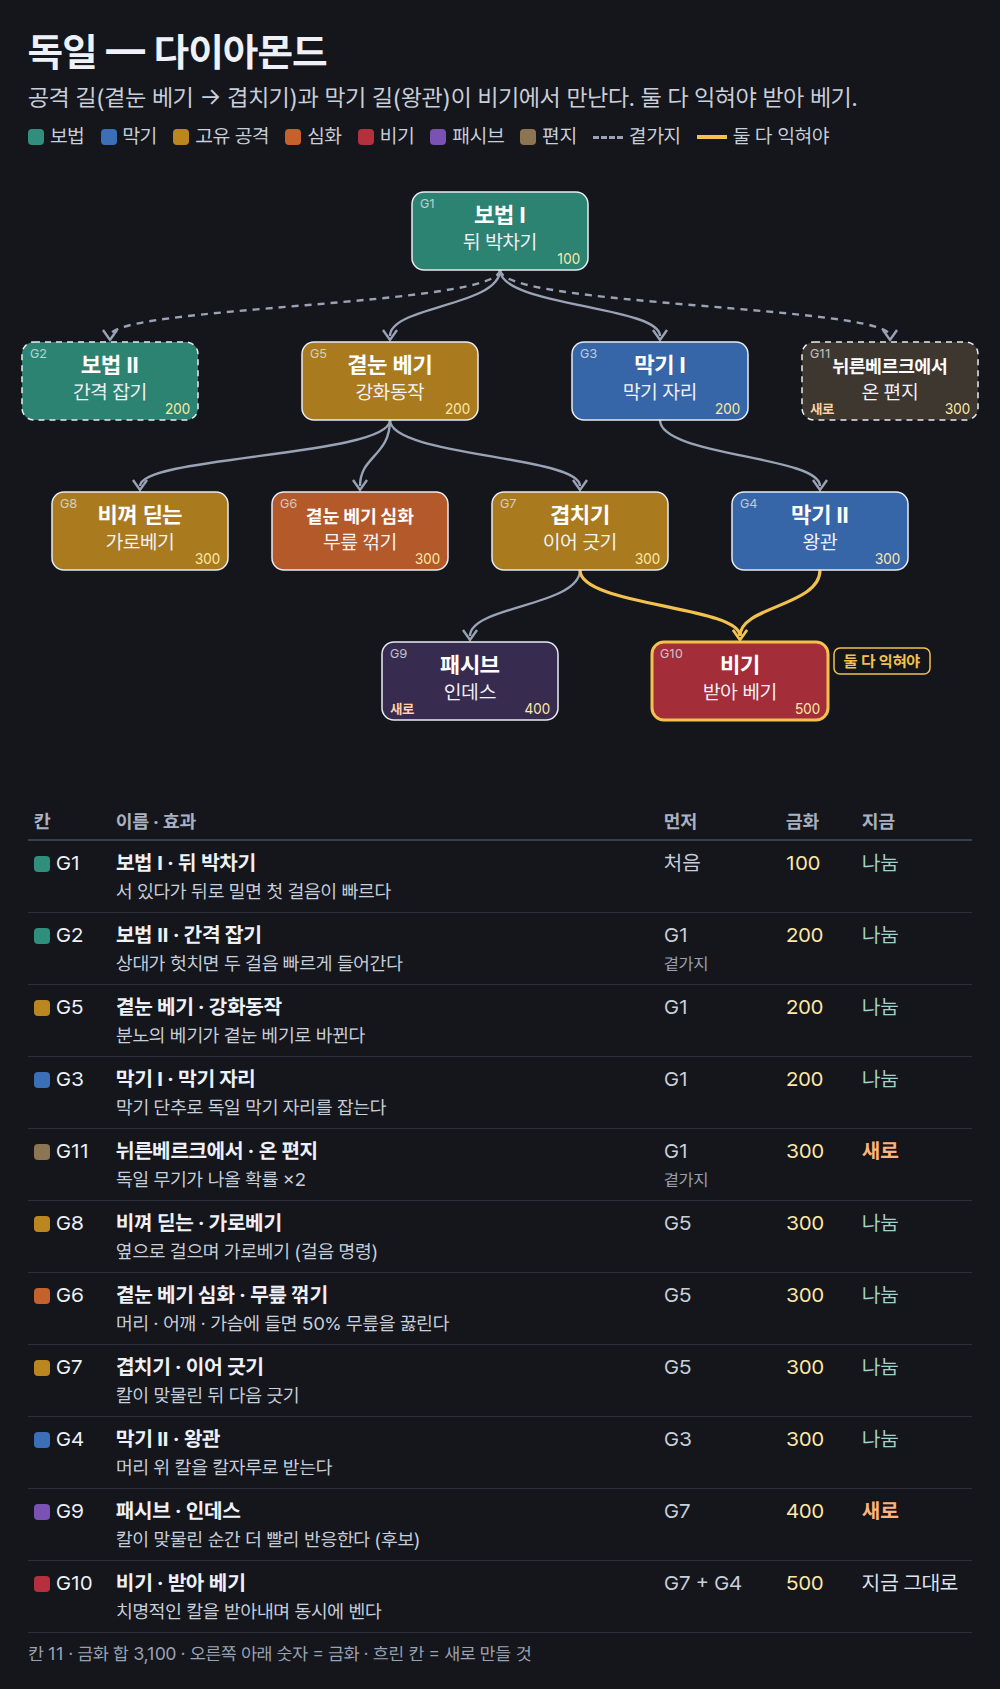
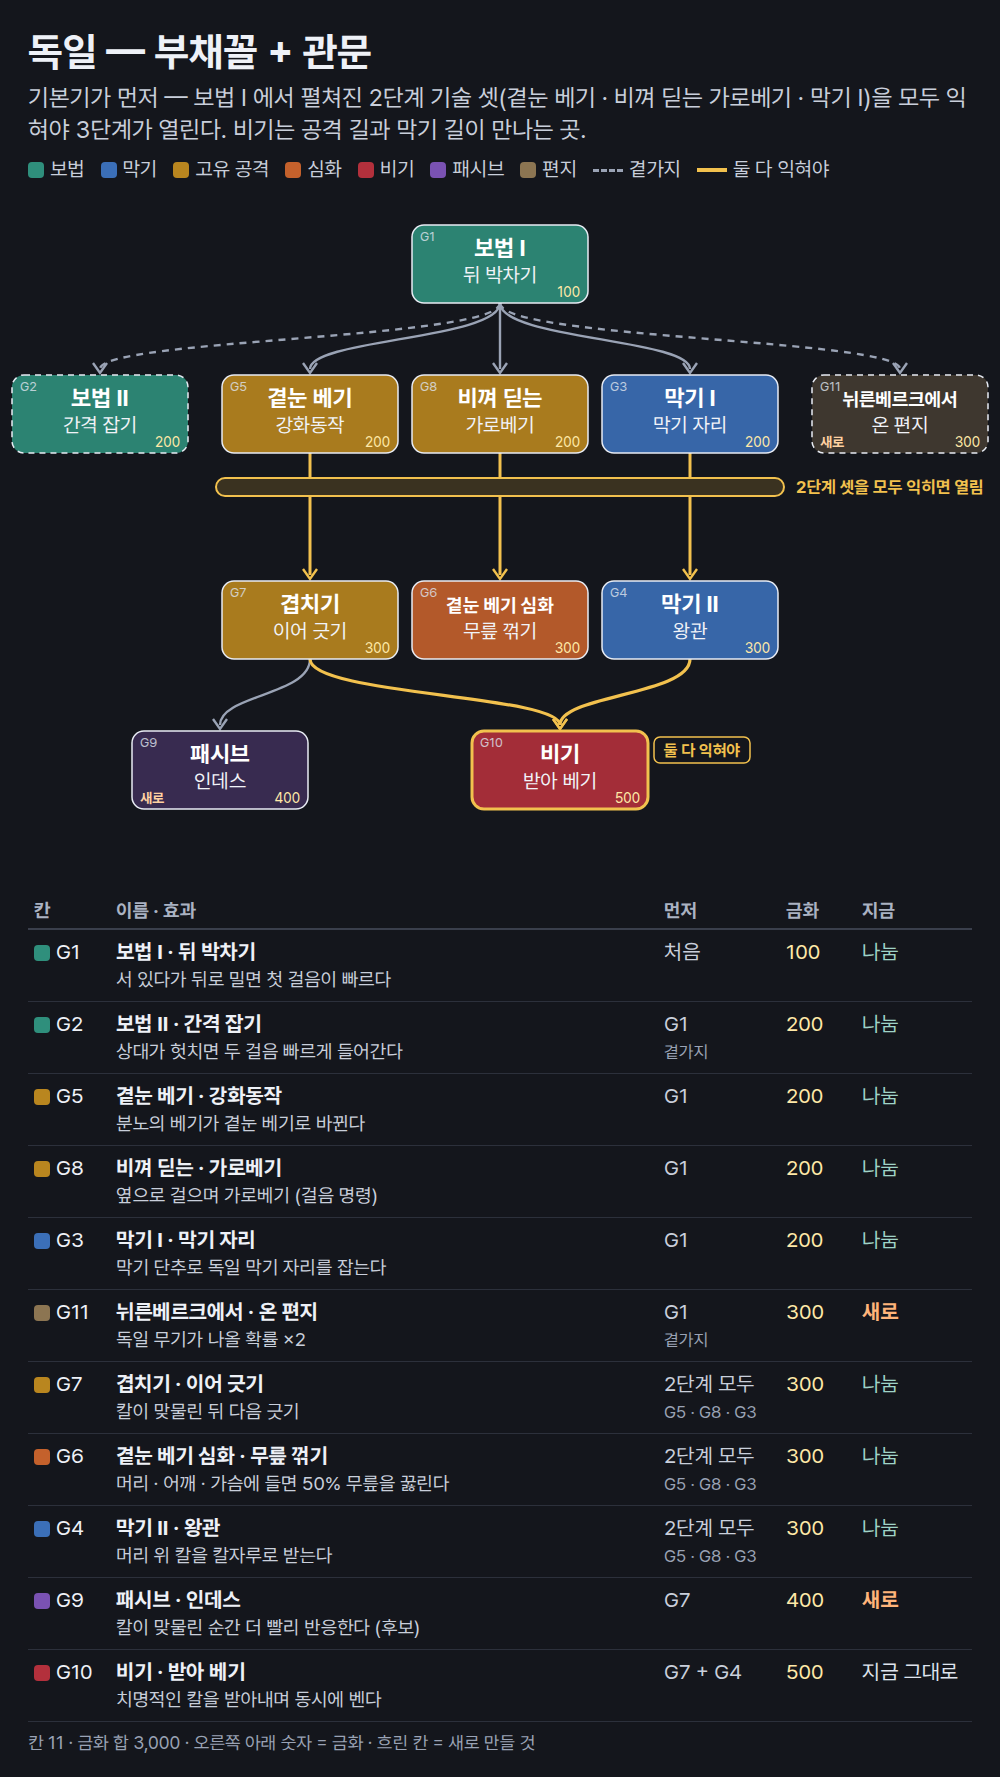
스킬트리 가안: 독일 부채꼴 + 관문(2단계 셋을 모두 익혀야 3단계) · 유파별 비기까지 최소 금화 표 (사장님 10/21 '독일은 기본기를 중시' · '비기를 최소비용으로 배우려고 할 때')
Claude-Session: https://claude.ai/code/session_014nJCzE4hyxiYc9innhSUng

diff --git a/docs/design/skill_tree_2026-10-21/README.md b/docs/design/skill_tree_2026-10-21/README.md
@@ -11,13 +11,13 @@
 - **이탈리아만 예외**(사장님 18:4x '이탈리아는 보법 심화를 익혀야 다음으로 넘어갈 수 있게 하자'): 보법 II 물러서기를 반드시 거친다 — 거리가 생명인 유파의 특색. 편지는 보법 I 곁가지 그대로.
 - **지금 한 권에 묶인 것을 나눴다**: 보법(뒤 박차기 / 간격 잡기 · 박자 걸음 / 물러서기 · 넓은 옆걸음 / 옆 박차기 · 가벼운 발 / 덜 지치는 걸음) · 막기(자리 / 덧씌우기 · 피해 감소 · 막아찌르기) · 고유 공격(2~3 개를 한 권에 → 칸마다) · 강화동작의 이점을 '심화' 칸으로(무릎 꺾기 · 틈 파고들기 · 쌓기 · 출혈).
 - **일본은 보법을 하나로 두었다**(낮은 자세와 버티기가 같은 몸이라 나누기 어려움) — 대신 막기를 셋(우케나가시 / 흘려 받기 / 흘린 칼)으로 나눠 11 칸을 맞춤.
-- **'둘 다 익혀야' 칸**(금색 줄): 독일 받아 베기(겹치기 + 왕관) · 이베리아 몰리네테(둥근 걸음 + 이어 긋기 흐름) · 일본 츠바메가에시(히라키기리 + 코테) · 동방 연환(날개 접기 + 단단한 받기).
+- **'둘 다 익혀야' 칸**(금색 줄): 독일 받아 베기(겹치기 + 왕관 — 그 앞에 2단계 셋 관문) · 이베리아 몰리네테(둥근 걸음 + 이어 긋기 흐름) · 일본 츠바메가에시(히라키기리 + 코테) · 동방 연환(날개 접기 + 단단한 받기).
 
 ## 유파마다 모양
 
 | 유파 | 모양 | 비기까지 |
 |---|---|---|
-| 독일 | 다이아몬드 — 공격 길과 막기 길이 비기에서 만남 | 보법 I → 곁눈 베기 → 겹치기 + 막기 I → 왕관 |
+| 독일 | 부채꼴 + 관문 — 2단계 기술 셋(곁눈 베기 · 비껴 딛는 가로베기 · 막기 I)을 모두 익혀야 3단계가 열림(사장님 18:5x '독일은 기본기를 중시한다는 의미에서') · 보법 II · 편지는 곁가지 그대로 | 보법 I → 2단계 셋 → 겹치기 + 왕관 |
 | 이탈리아 | 긴 줄기 — 보법 II 를 거쳐 찌르기 줄기와 막기 줄기가 나란히 | 보법 I → 보법 II → 비껴서며 찌르기 → 내려 찌르기 → 심화(틈 파고들기) → 비기 (사장님 18:4x '내려찌르기 심화와 비기도 한 줄로' — 위에서 찌르기를 깊이 익힌 뒤 정반대인 밑으로 들어가 찌르기가 끝자리) |
 | 이베리아 | 고리 — 손목 힘 패시브를 보법 바로 아래에서 먼저(사장님 18:5x '패시브가 있어야 다른 동작이 원활해지니까') · 둥근 걸음 길과 돌려 베기 길이 비기에서 닫힘 | 보법 I → 둥근 걸음 탈류 + 돌려 베기 → 이어 긋기 흐름 |
 | 일본 | 막기 줄기 — 받기를 셋 익혀야 고노센 | 보법 → 우케나가시 → 흘려 받기 → 흘린 칼 |
@@ -37,3 +37,15 @@
 - 이미 산 책은 나눈 칸으로 옮긴다: 1급 보법 → 보법 I · II · 2급 막기 → 막기 칸 전부 · 3급 고유자세 → 고유 공격 · 심화 칸 전부 · 4급 패시브 → 패시브 · 5급 비기 → 비기(앞 칸이 없어도 열림).
 - AI 는 그대로(숙련도). 사람만 트리.
 - 새로 만들 것: 패시브 넷(독일 인데스 · 이탈리아 카바치오네 · 일본 잔신 · 동방 검결가 — 효과는 후보) · 일본 코테 심화(이점 미정 — 확인표 2107) · 편지 다섯 · 뽑기 규칙 · 대기실 판(지금 별자리 다섯 칸 → 트리 11 칸).
+
+## 비기까지 최소 금화 (사장님 18:5x '유파별로 비기를 최소비용으로 배우려고 할 때 각각 금화가 얼마씩')
+
+| 유파 | 최소 금화 | 칸 | 길 | 트리 전체 |
+|---|---:|---:|---|---:|
+| 이베리아 | **1,300** | 5 | 보법 I 100 → 둥근 걸음 탈류 200 · 돌려 베기 200 → 이어 긋기 흐름 300 → 비기 500 | 3,100 |
+| 일본 | **1,500** | 5 | 보법 100 → 우케나가시 200 → 흘려 받기 300 → 흘린 칼 400 → 비기 500 | 3,200 |
+| 동방 | **1,600** | 6 | 보법 I 100 → 요격 200 · 세 자세 200 → 날개 접기 300 · 단단한 받기 300 → 비기 500 | 3,100 |
+| 이탈리아 | **1,700** | 6 | 보법 I 100 → 보법 II 200 → 비껴서며 찌르기 200 → 내려 찌르기 300 → 심화 400 → 비기 500 | 3,200 |
+| 독일 | **1,800** | 7 | 보법 I 100 → 2단계 셋 600 → 겹치기 300 · 왕관 300 → 비기 500 | 3,000 |
+
+지금은 비기 책 하나 500 이면 바로 열린다(순서 없음).

diff --git a/docs/decisions.md b/docs/decisions.md
@@ -1287,3 +1287,4 @@
 - 18:3x "스킬트리를 짜야해. 디아블로나 WOW처럼 …" · 18:4x "시작은 무조건 보법부터 … 보법 심화는 선택적인 곁가지로" → 가안: 유파마다 11 칸 · 뿌리 보법 I · 보법 II · 편지 곁가지 · 모양 다섯(다이아몬드 · 두 줄기 · 고리 · 막기 줄기 · 부채꼴) · 편지 = 유파 무게 × 2(등급 먼저 → 유파 → 무기, 편지 없으면 지금 확률 그대로) · docs/design/skill_tree_2026-10-21/ (사장님 확인 전)
 - 18:4x "이탈리아는 보법 심화를 익혀야 다음으로 넘어갈 수 있게 하자. 내려찌르기 심화와 비기도 한 줄로" → 이탈리아 트리: 보법 I → 보법 II(필수) → 비껴서며 찌르기 → 내려 찌르기 → 심화 → 비기 (심화가 먼저 — 비기가 끝자리) · 막기 줄기 나란히 · 편지는 보법 I 곁가지
 - 18:5x "이베리아는 패시브를 보법의 가지로 바로 익힐 수 있게 하자. 패시브가 있어야 다른 동작이 원활해지니까" → 이베리아 트리: 손목 힘(B10)을 보법 I 바로 아래로(전 돌려 베기 아래)
+- 18:5x "독일은 기본기를 중시한다는 의미에서, 부채꼴의 2단계에 해당하는 기술을 다 배워야 다음으로 넘어갈 수 있는 스킬트리를 짜자. 유파별로 비기를 최소비용으로 배우려고 할 때 각각 금화가 얼마씩" → 독일 부채꼴 + 관문(곁눈 베기 · 비껴 딛는 가로베기 · 막기 I 모두 → 3단계) · 비기 최소 금화 이베리아 1,300 · 일본 1,500 · 동방 1,600 · 이탈리아 1,700 · 독일 1,800
